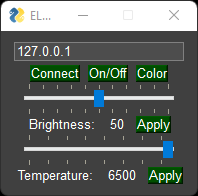
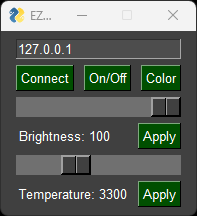
UPD

diff --git a/main.py b/main.py
@@ -1,85 +1,91 @@
-import os.path
-
-import PySimpleGUIQt as Sg
-from yeelight import Bulb
+import PySimpleGUI as sg
+from modules.yeelight import *
 
 
 def main():
-    Sg.theme("Dark")
+    sg.theme("Dark")
 
-    if not os.path.isfile("ip.txt"):
-        with open("ip.txt", "w") as f:
-            f.close()
-    with open("ip.txt", "r") as f:
-        ip = f.read()
-        bulb = Bulb(ip)
+    layout = [ #yeelight_layout = [
+        [
+            sg.InputText(default_text=ip, size=(23), key="ip"),
+            sg.InputText(change_submits=True, key="ColorText", visible=False),
+        ],
+        [
+            sg.Button("Connect"),
+            sg.Button("On/Off"),
+            sg.ColorChooserButton("Color", target="ColorText", key="ColorButton"),
+        ],
+        [
+            sg.Slider(
+                range=(0, 100),
+                default_value=100,
+                orientation="horizontal",
+                disable_number_display=True,
+                change_submits=True,
+                size=(18.3, 20),
+                key="BrightnessSlider",
+            )
+        ],
+        [
+            sg.Text("Brightness:", pad=((6, 0),(0, 0))),
+            sg.Text("100", pad=((0, 21),(0, 0)), key="BrightnessText"),
+            sg.Button("Apply", key="BrightnessApply"),
+        ],
+        [
+            sg.Slider(
+                range=(1700, 6500),
+                default_value=6500,
+                orientation="horizontal",
+                disable_number_display=True,
+                change_submits=True,
+                size=(18.3, 20),
+                key="TemperatureSlider",
+            )
+        ],
+        [
+            sg.Text("Temperature:", pad=((6, 0),(0, 0))),
+            sg.Text("6500", pad=((0, 4),(0, 0)), key="TemperatureText"),
+            sg.Button("Apply", key="TemperatureApply"),
+        ],
+    ]
+    """
+    test_layout = [[sg.Text("In progress...")]]
 
     layout = [
         [
-            Sg.InputText(default_text=ip),
-            Sg.InputText(change_submits=True, key="ColorA", visible=False),
-        ],
-        [
-            Sg.Button("Connect"),
-            Sg.Button("On/Off"),
-            Sg.ColorChooserButton("Color", target="ColorA"),
-        ],
-        [
-            Sg.Slider(
-                range=(0, 100),
-                orientation="horizontal",
-                change_submits=True,
-                key="Brightness",
+            sg.TabGroup(
+                [[sg.Tab("Yeelight", yeelight_layout), sg.Tab("TEST", test_layout)]]
             )
-        ],
-        [
-            Sg.Text("Brightness:"),
-            Sg.Text("null", key="BrightnessText"),
-            Sg.Button("Apply", key="BrightnessApply"),
-        ],
-        [
-            Sg.Slider(
-                range=(1700, 6500),
-                orientation="horizontal",
-                change_submits=True,
-                key="Temperature",
-            )
-        ],
-        [
-            Sg.Text("Temperature:"),
-            Sg.Text("null", key="TemperatureText"),
-            Sg.Button("Apply", key="TemperatureApply"),
         ],
     ]
-
-    window = Sg.Window("EGUI", layout, element_justification="center", resizable=False)
+    """
+    window = sg.Window("EZRGB", layout, element_justification="left", resizable=False)
 
     while True:
         event, values = window.read()
-        if event == Sg.WIN_CLOSED:
+        if event == sg.WIN_CLOSED:
             break
-        window.Element("BrightnessText").Update(values["Brightness"])
-        window.Element("TemperatureText").Update(values["Temperature"])
         try:
             if event == "Connect":
-                ip = values[0]
-                with open("ip.txt", "w") as f:
-                    f.write(ip)
-                bulb = Bulb(ip)
+                yeelight_connect(values["ip"])
+
             if event == "On/Off":
-                bulb.toggle()
-            if event == "ColorA":
-                color = values["ColorA"]
-                rgb = [int(color[1:3], 16), int(color[3:5], 16), int(color[5:7], 16)]
-                if rgb[0] == 0 and rgb[1] == 0 and rgb[2] == 0:
-                    rgb = [255, 255, 255]
-                bulb.set_rgb(*rgb)
+                yeelight_toggle()
+
+            if event == "ColorText":
+                yeelight_color(values["ColorText"])
+
             if event == "BrightnessApply":
-                bulb.set_brightness(values["Brightness"])
+                yeelight_brightness(values["BrightnessSlider"])
+
             if event == "TemperatureApply":
-                bulb.set_color_temp(values["Temperature"])
+                yeelight_temperature(values["TemperatureSlider"])
         except Exception as e:
-            Sg.Popup(str("Check IP or Connection"), str(e))
+            sg.Popup(str(e))
+
+        window.Element("BrightnessText").Update("{:.0f}".format(values["BrightnessSlider"]).rstrip("."))
+        window.Element("TemperatureText").Update("{:.0f}".format(values["TemperatureSlider"]).rstrip("."))
+
     window.close()
 
 

diff --git a/modules/yeelight.py b/modules/yeelight.py
@@ -1,0 +1,32 @@
+from yeelight import Bulb
+
+ip = ""
+with open("ip.txt", "r") as f:
+    ip = f.read()
+bulb = Bulb(ip)
+
+
+def yeelight_connect(ip):
+    global bulb
+    bulb = Bulb(ip)
+    with open("ip.txt", "w") as f:
+        f.write(ip)
+
+
+def yeelight_toggle():
+    bulb.toggle()
+
+
+def yeelight_color(color):
+    rgb = [int(color[1:3], 16), int(color[3:5], 16), int(color[5:7], 16)]
+    if rgb[0] == 0 and rgb[1] == 0 and rgb[2] == 0:
+        rgb = [255, 255, 255]
+    bulb.set_rgb(*rgb)
+
+
+def yeelight_brightness(bright):
+    bulb.set_brightness(bright)
+
+
+def yeelight_temperature(temp):
+    bulb.set_color_temp(temp)

diff --git a/README.md b/README.md
@@ -1,8 +1,19 @@
-# YeelightGUI [![Code style: black](https://img.shields.io/badge/code%20style-black-000000.svg)](https://github.com/psf/black)
-<img src="./preview.png">
+# EZRGB [![Code style: black](https://img.shields.io/badge/code%20style-black-000000.svg)](https://github.com/psf/black)
 
-##### USED:
-* [cx_Freeze](https://github.com/marcelotduarte/cx_Freeze)
-* [PySide](https://wiki.qt.io/Qt_for_Python)
-* [PySimpleGUI](https://github.com/PySimpleGUI/PySimpleGUI)
-* [python-yeelight](https://gitlab.com/stavros/python-yeelight)
+![Preview](/preview.png)
+
+## Installation
+
+### Windows
+
+1. Install [Python](https://www.microsoft.com/store/productId/9PJPW5LDXLZ5)
+2. Install [Git](https://git-scm.com/download/win)
+4. Run Terminal
+5. Download a repository `git clone https://github.com/ExRyuske/EZRGB.git`
+6. Install the dependencies `pip install -r EZRGB/requirements.txt`
+7. Run `start-windows.bat`
+
+## Credits
+
+- [PySimpleGUI](https://github.com/PySimpleGUI/PySimpleGUI)
+- [python-yeelight](https://gitlab.com/stavros/python-yeelight)
